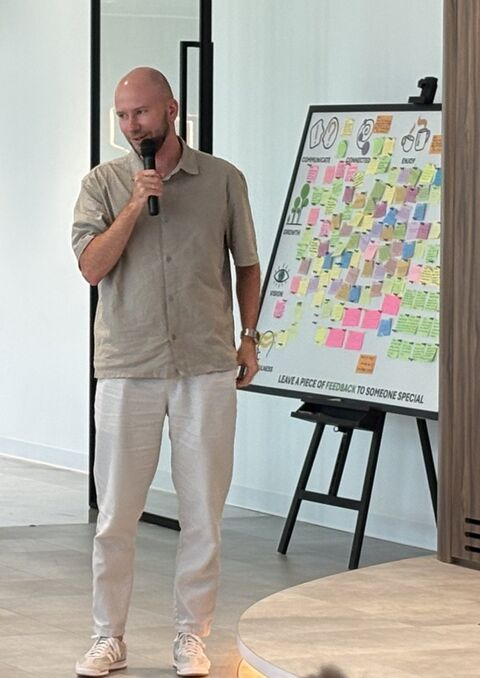
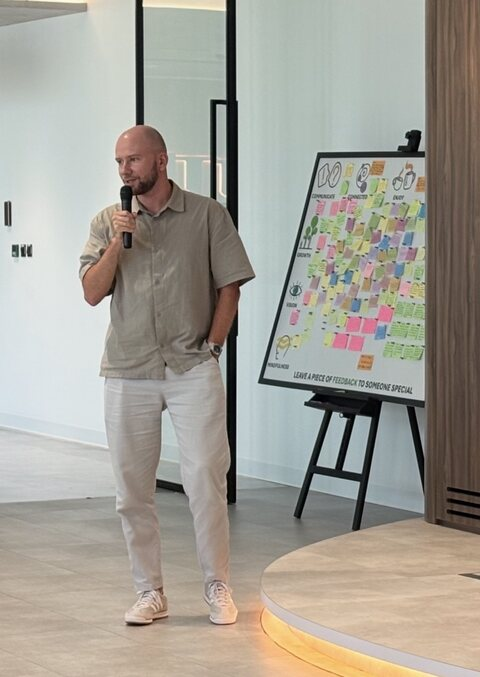
Replace the About photo with a sharper, wider shot
Cropped to the block's 3:4 frame around the speaker and the feedback board,
without the people and table in the foreground; served up to the source's
native 780 px width (no upscaling).

Claude-Session: https://claude.ai/code/session_01JGqxTpeP8wSoZu71sGjLMT

diff --git a/static/assets/css/style.css b/static/assets/css/style.css
@@ -255,7 +255,7 @@ button { font: inherit; }
 
 /* about */
 .grid-about { display: grid; grid-template-columns: 380px minmax(0, 1fr); gap: clamp(32px, 6vw, 88px); align-items: start; }
-.about__media img { width: 100%; aspect-ratio: 850 / 1200; object-fit: cover; border-radius: 20px; background: var(--bg-alt); }
+.about__media img { width: 100%; aspect-ratio: 780 / 1100; object-fit: cover; border-radius: 20px; background: var(--bg-alt); }
 .about h2 { margin-bottom: 28px; }
 .about p:not(.lead):not(.eyebrow) { color: var(--muted); }
 .facts { margin: 28px 0 0; border-top: 1px solid var(--line); }
